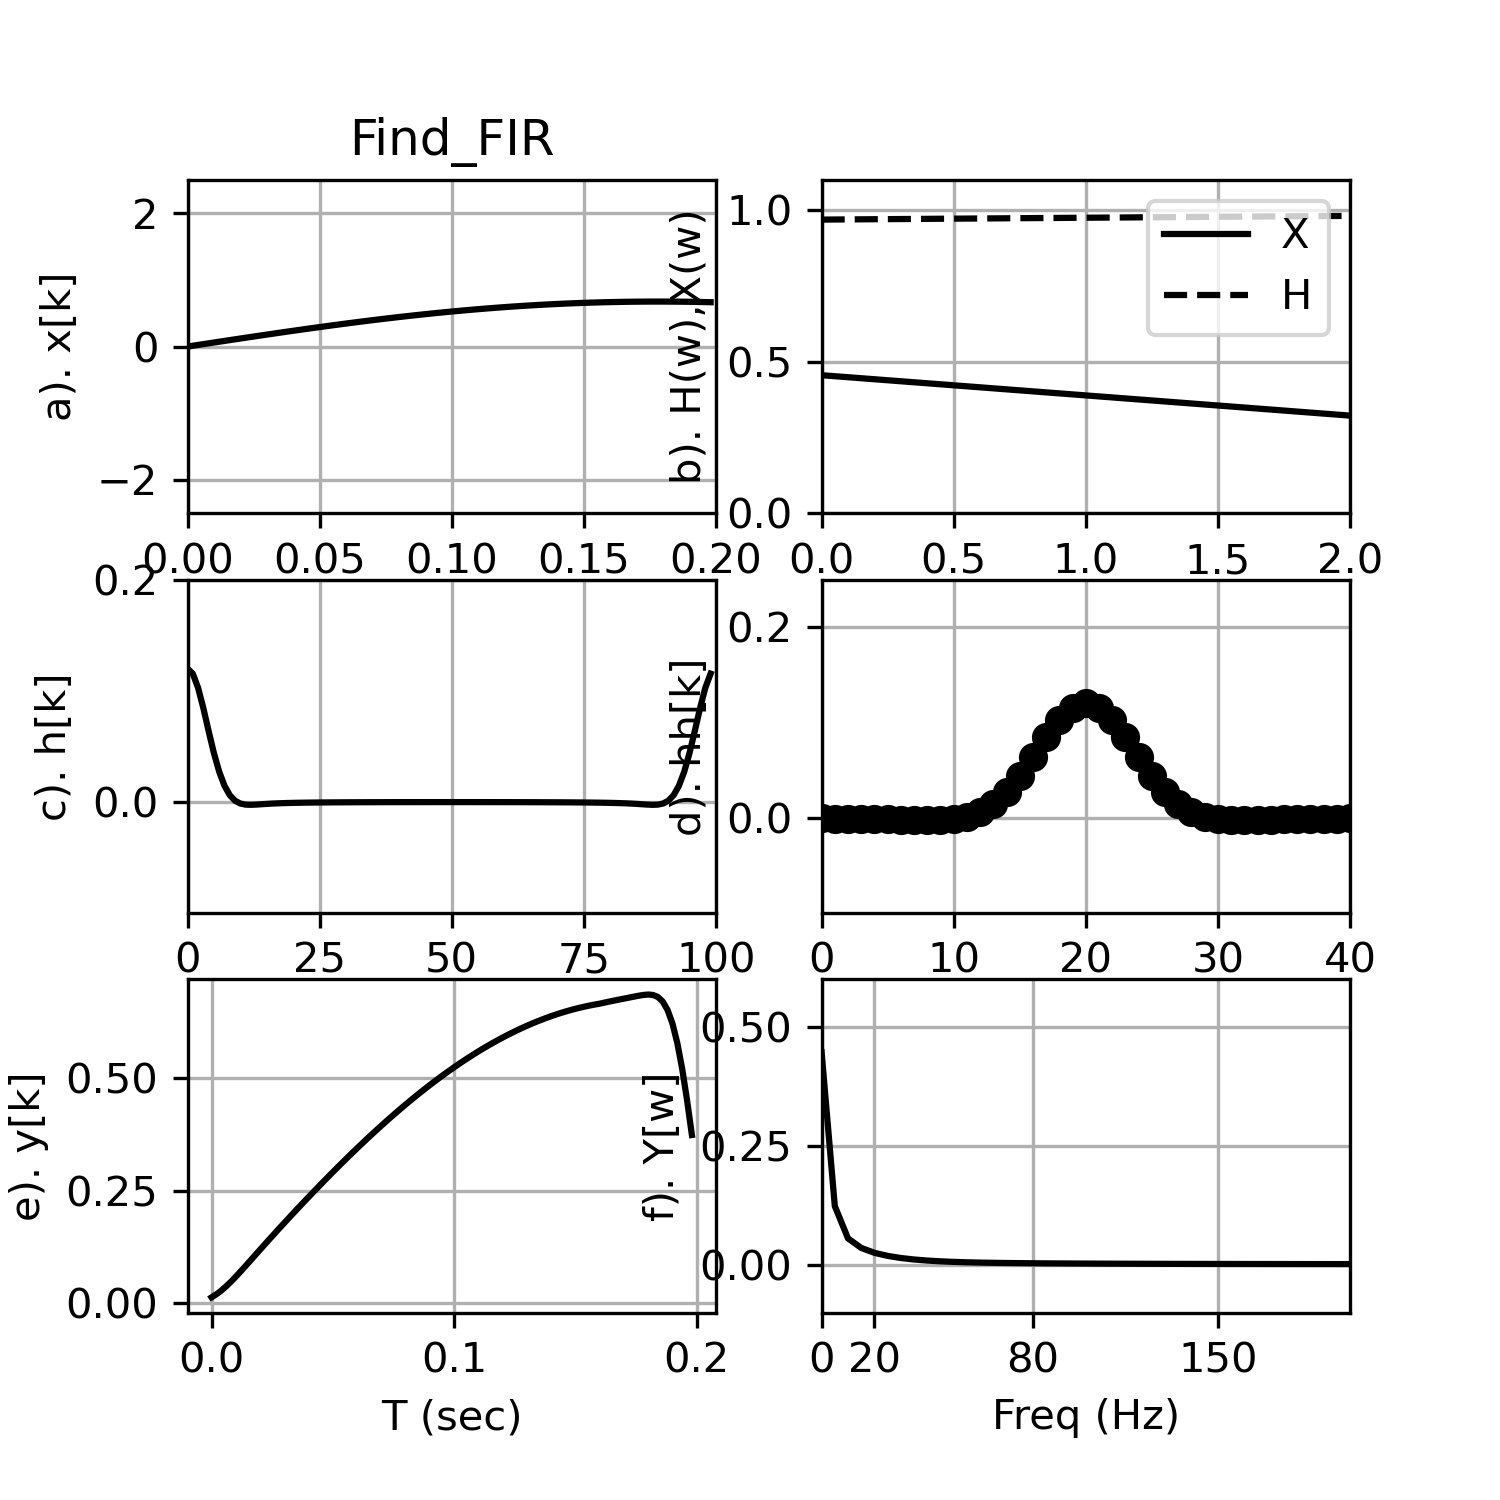
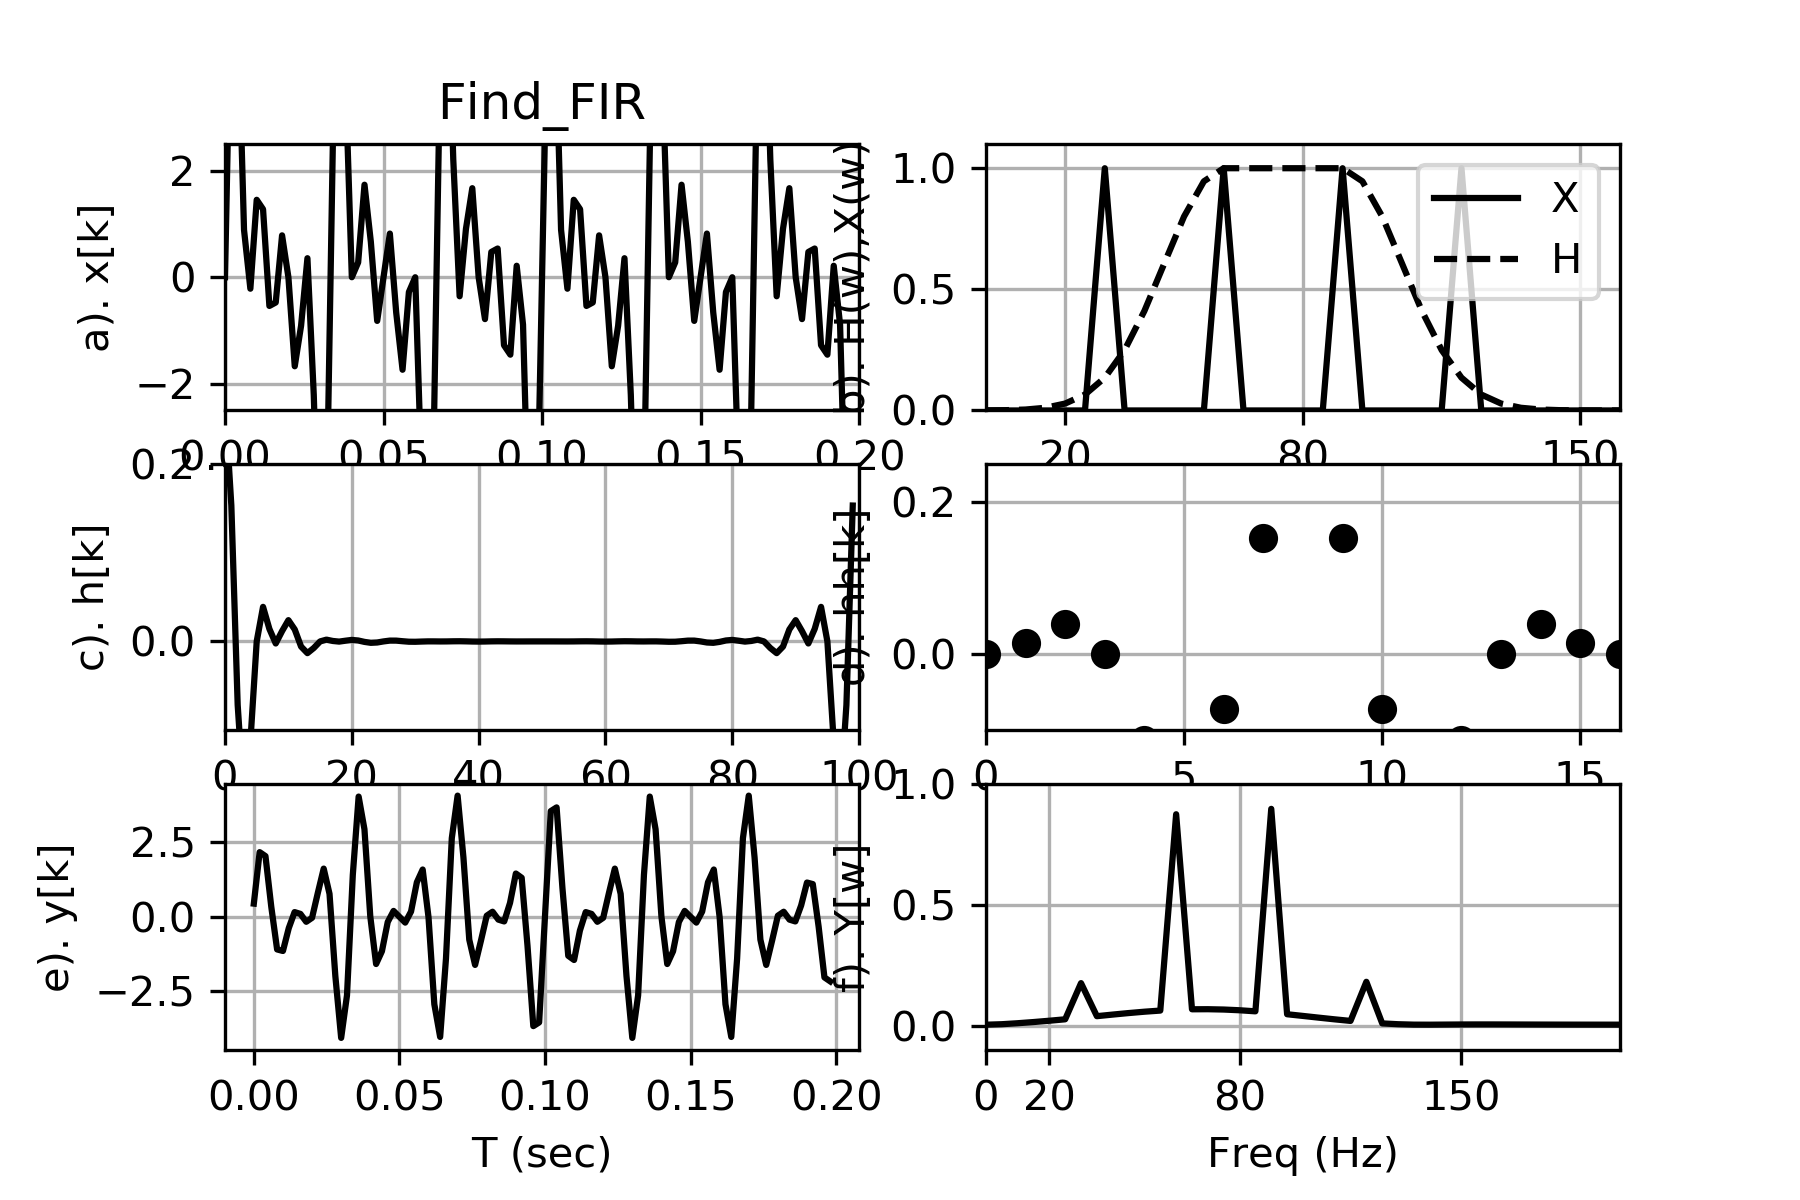
11-17-2023

diff --git a/FindFIR.py b/FindFIR.py
@@ -4,27 +4,33 @@ import matplotlib.pyplot as plt
 import numpy as np
 from scipy import signal as sig
 from math import pi, exp, cos, sin, log, sqrt
+dt = .002
 NN = 100
 
 N2 = int(NN/2)
 x = np.zeros(NN)
 y = np.zeros(NN)
-dt = .002
+
 TT = np.linspace(0,dt*(NN-1),NN)
 DF = 1/(dt*NN)
 FF = np.linspace(0,DF*(NN-1),NN)
-f1 = 20
-f2 = 80
-f3 = 150
-freq1 =0.1
-freq2 = 1
-freq3 = 10
-x = 0.5*np.sin(freq1*TT) + 1*np.sin(freq2*TT) + 0.5*np.sin(freq3*TT)
-plt.figure(figsize=[5,5])
-plt.subplot(3,2,1)
+f1 = 30
+f2 = 60
+f3 = 90
+f4 = 120
+freq1 = 2*pi*f1
+freq2 = 2*pi*f2
+freq3 = 2*pi*f3
+freq4 = 2*pi*f4
+
+x = 2*np.sin(freq1*TT)
+x+= 2*np.sin(freq2*TT)
+x+= 2*np.sin(freq3*TT)
+x+= 2*np.sin(freq4*TT)
+plt.subplot(321)
 plt.plot(TT,x,'k')
 plt.axis([0,NN*dt,-2.5,2.5])
-#plt.text(5,-15,'$\phi$ = {}'.format(round(14,3)),fontsize=12)
+plt.text(5,-15,'$\phi$ = {}'.format(round(14,3)),fontsize=12)
 plt.title('Find_FIR')
 plt.ylabel('a). x[k]')
 plt.xlabel('T (sec)')
@@ -41,8 +47,13 @@ H = np.zeros(NN)
 #for n in range(4,16):
 # H[n] = exp(-.5*((n-4)/4)**2)
 """ Band pass """
-for n in range(N2):
-    H[n] = exp(-.5*((n-1)/4)**2)
+for n in range(12):
+    H[n] = exp(-.5*((n-12)/3)**2)
+for n in range(12,18):
+    H[n] = 1
+for n in range(18,N2):
+    H[n] = exp(-.5*((n-18)/3)**2)
+
 """ High pass """
 #for n in range(15):
 # H[n] = exp(-.5*((n-15)/4)**2)
@@ -52,48 +63,59 @@ for n in range(N2):
 for n in range(1,N2-1):
     H[NN-n] = H[n]
 Y = H*X
-plt.subplot(3,2,2)
+plt.subplot(322)
 plt.plot(FF,abs(X),'k',label='X')
 plt.plot(FF,H,'k--',label='H')
 plt.legend(loc='upper right')
 plt.ylabel('b). H(w),X(w)')
 plt.xlabel('Freq (Hz)')
 plt.grid()
-plt.axis([0,2,0,1.1])
-#plt.xticks([20,80,150])
+plt.axis([0,160,0,1.1])
+plt.xticks([20,80,150])
+
 h = np.fft.ifft(H)
+
 plt.subplot(323)
 plt.plot(h.real,'k')
 plt.xlabel('k')
 plt.ylabel('c). h[k]')
 plt.grid()
 plt.axis([0,NN,-.1,.2])
-M = 20
+
+M = 8
 hh = np.zeros(NN)
+
 """ Move the filter to the left side """
 for n in range(M):
     hh[n+M] = h[n].real
     hh[M-n] = hh[M+n]
-plt.subplot(3,2,4)
+
+plt.subplot(324)
 plt.plot(hh,'ok')
 plt.axis([0 ,2*M,-.1,.25])
 plt.xlabel('k')
 plt.ylabel('d). hh[k]')
 plt.grid()
+
 """ Convolve hh and x """
+
 yy=np.convolve(hh,x)
+
 y = np.zeros(NN)
 for n in range(NN):
     y[n] = yy[n+M]
-plt.subplot(3,2,5)
+
+plt.subplot(325)
 plt.plot(TT,y,'k')
 plt.ylabel('e). y[k]')
 plt.xlabel('T (sec)')
 plt.grid()
+
 Y = (1/NN)*np.fft.fft(y)
-plt.subplot(3,2,6)
+
+plt.subplot(326)
 plt.plot(FF,abs(Y),'k')
-plt.axis([0,200,-.1,.6])
+plt.axis([0,200,-.1,1])
 plt.xticks([0,20,80,150])
 plt.ylabel('f). Y[w]')
 plt.xlabel('Freq (Hz)')
